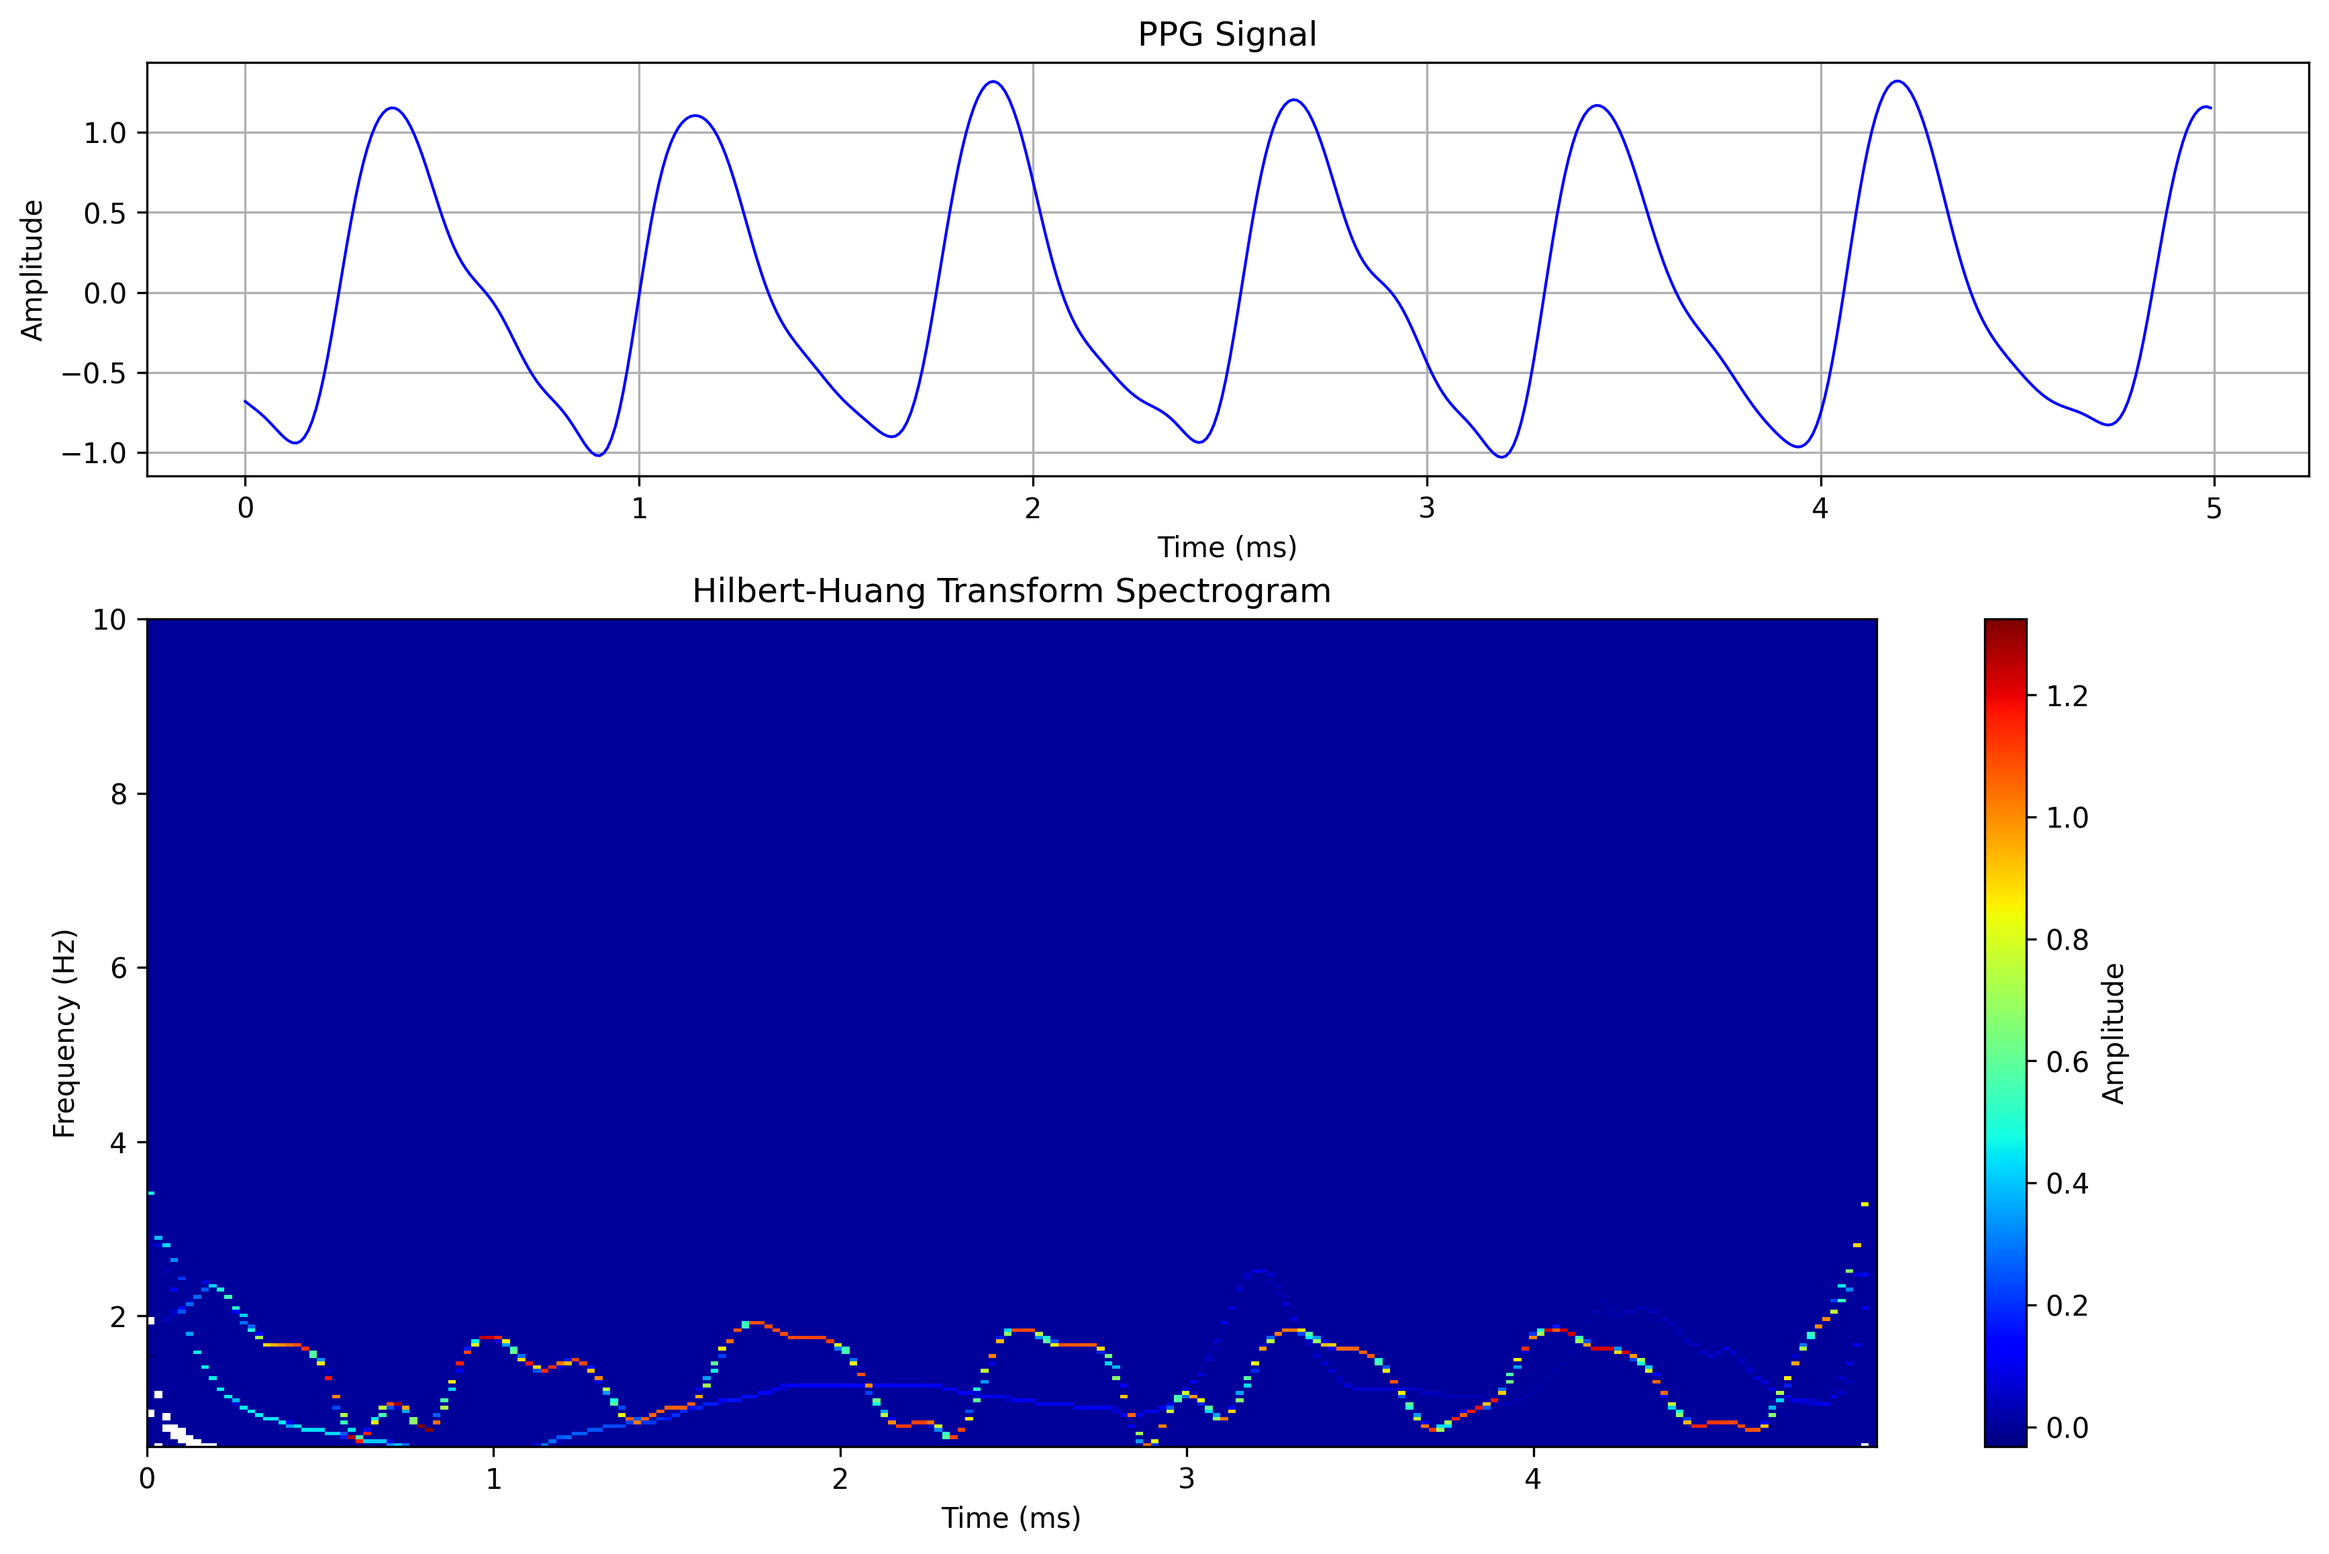
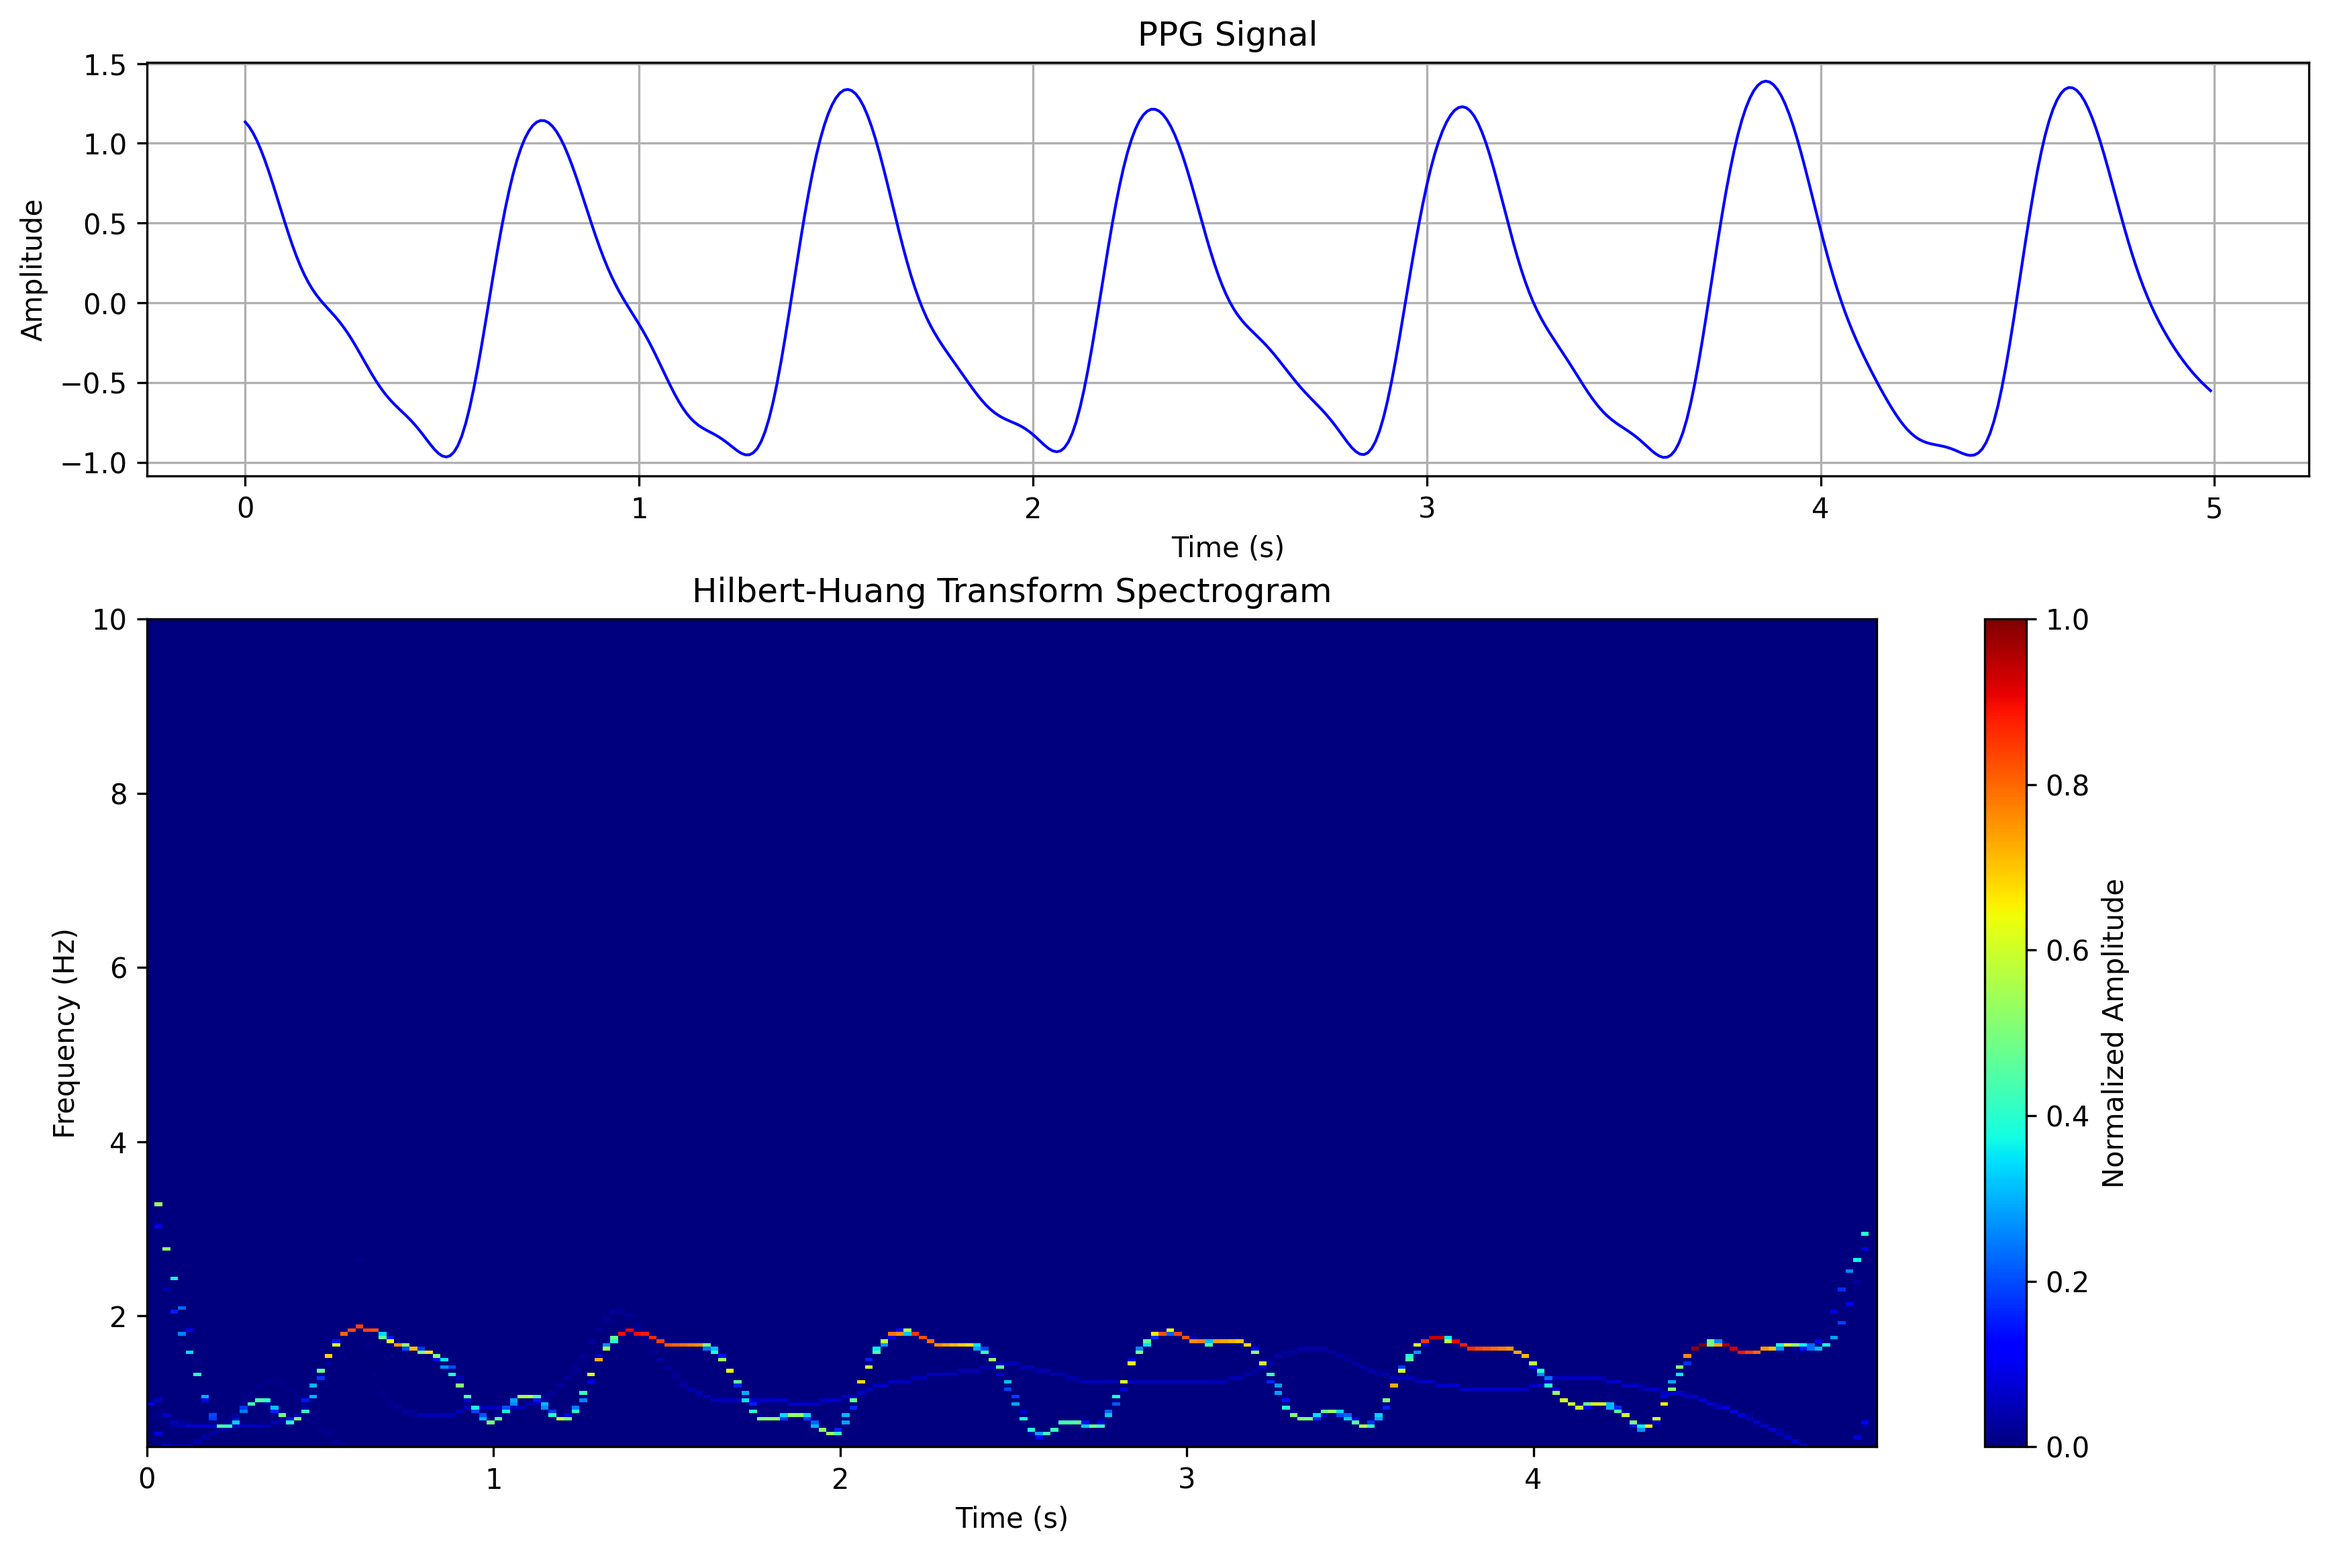
Spectrogram normalization

diff --git a/preprocess_data.py b/preprocess_data.py
@@ -102,7 +102,7 @@ def create_spectrograms(signals, fs):
     Creates Hilbert-Huang Transform (HHT) based spectrograms from a list of signals.
 
     This function performs EMD (Empirical Mode Decomposition) on each signal,
-    computes instantaneous frequencies and amplitudes using Normalized Hilbert Transform,
+    computes instantaneous frequencies and amplitudes using Hilbert Transform,
     and generates a time-frequency-amplitude representation (spectrogram).
 
     Args:
@@ -120,16 +120,20 @@ def create_spectrograms(signals, fs):
     """
 
     spectrograms = []  # List to store spectrograms for each window
-
     # Calculate spectrograms for each window
     for signal in signals:
         # Decompose signal into intrinsic mode functions (IMFs) using masked EMD
         # Limited to 7 IMFs to capture relevant frequency components
         intrinsic_mode_functions = emd.sift.mask_sift(signal, max_imfs=7)
 
-        # Calculate instantaneous frequencies and amplitudes using Normalized Hilbert Transform
+        # check for nan values in intrinsic mode functions
+        if np.isnan(intrinsic_mode_functions).any():
+            print("Signal contains NaN values, skipping...")
+            continue
+
+        # Calculate instantaneous frequencies and amplitudes using Hilbert Transform
         _, inst_freqs, inst_amps = emd.spectra.frequency_transform(
-            intrinsic_mode_functions, fs, method="nht"
+            intrinsic_mode_functions, fs, method="hilbert"
         )
 
         # Generate Hilbert-Huang Transform spectrogram
@@ -144,6 +148,11 @@ def create_spectrograms(signals, fs):
 
         # Resize spectrogram to target dimensions (224x224)
         hilbert_huang_transform = cv2.resize(hilbert_huang_transform, (224, 224))
+
+        # Normalize spectrogram to range [0, 1]
+        hilbert_huang_transform = (hilbert_huang_transform - hilbert_huang_transform.min()) / (
+            hilbert_huang_transform.max() - hilbert_huang_transform.min()
+        )
 
         # Convert to PyTorch tensor and add channel dimension for input to model
         spectrum = torch.from_numpy(hilbert_huang_transform)
